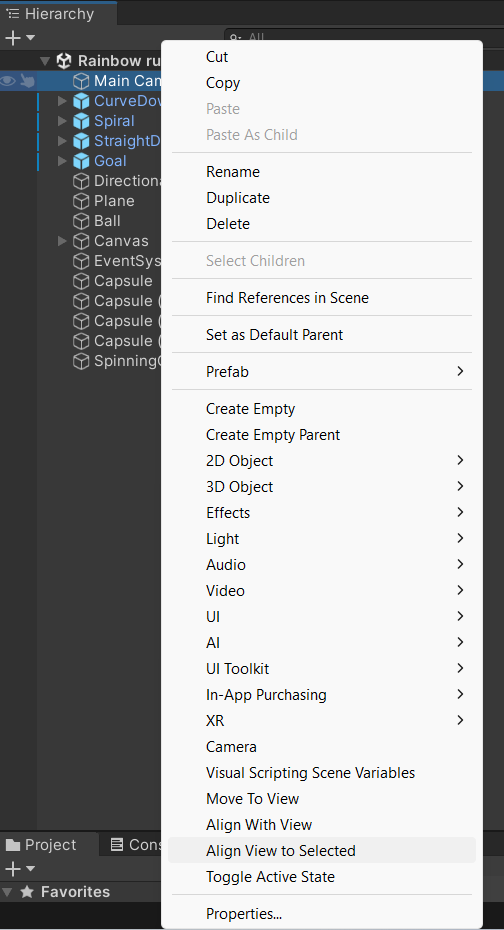
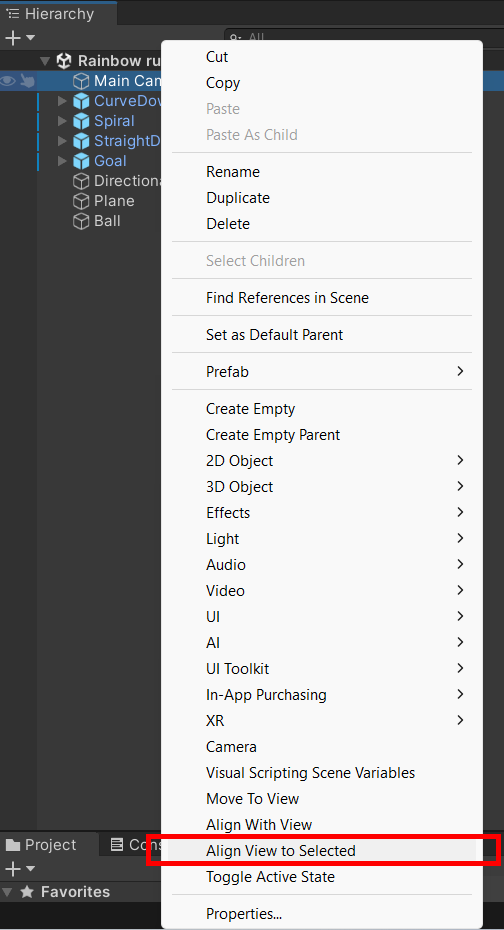
windows screenshot

Changed region(s): [[0.2679, 0.8731, 1.0, 0.9355], [0.119, 0.2495, 0.3274, 0.4054]]

diff --git a/en/step_3.md b/en/step_3.md
@@ -67,9 +67,9 @@ Rotation: X=`15`, Y=`-130`, Z=`0`
 
 Right-click on the 'Main Camera' object in the 'Hierarchy'.
 
-Choose 'Align with view'. This will match your Scene view and your Main Camera view. 
+Choose 'Align View to Selected'. This will match your Scene view and your Main Camera view. 
 
-![A screenshot showing the 'Align with view' option highlighted in the GameObject menu.](images/align-with-view.png)
+![A screenshot showing the 'Align View to Selected' option highlighted in the GameObject menu.](images/align-view-with-selected.png)
 
 --- /task ---
 
